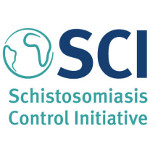
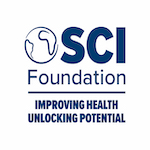
Merged in SCI (pull request #130)
SCI Foundation

* longDiscription korrigiert

* Changes to SCI Foundation text and logos as well as IISS text shortend

* Changes to SCI regions

* Website Links and Title changed

* Long description corrected and pictures resized

* Solve merge conflicts with master

Approved-by: Christopher Thomsen

diff --git a/src/app/services/data.ts b/src/app/services/data.ts
@@ -64,31 +64,31 @@ export class DataService {
       ]
     },
     {
-      name: 'Schistosomiasis Control Initiative',
+      name: 'SCI Foundation',
       article: 'die',
       thumbnail: 'sci',
-      website: 'http://www.imperial.ac.uk/schistosomiasis-control-initiative',
-      donationLink: 'http://www.imperial.ac.uk/schistosomiasis-control-initiative/donate/',
+      website: 'https://schistosomiasiscontrolinitiative.org/',
+      donationLink: 'https://schistosomiasiscontrolinitiative.org/get-involved/donate',
       donationKeyEAS: 'SCI',
       category: [ 'Armut' ],
       cause: [ 'Gesundheit' ],
       impactDirection: 'reaktiv',
-      regions: [ 'BI', 'CI', 'CD', 'ET', 'LR', 'MG', 'MW', 'MR', 'MZ', 'NE', 'NG', 'SD', 'TZ', 'UG', 'ZM' ],
+      regions: [ 'BI', 'CI', 'CD', 'ET', 'LR', 'MG', 'MW', 'MR', 'NE', 'SD', 'TZ', 'UG' ],
       questionaireResults: [ 'human health' ],
       slogan: 'Behandlung vernachlässigter Tropenkrankheiten in Subsahara-Afrika',
-      shortDescription: 'SCI behandelt Kinder und Erwachsene mit Risiko für Schistosomiasis und durch den Boden übertragene Helminthen (Peitschenwurm, Hakenwurm und Spulwurm), verhindert Anämie, beeinträchtigtes Wachstum und Entwicklung bei Kindern und die Entwicklung von lebensbedrohlichen Zuständen von Blasenkrebs, Nierenfunktionsstörungen oder Leber- und Milzschäden.',
-      longDescription: 'SCI unterstützt Gesundheitsministerien in Subsahara-Afrika bei der Bekämpfung und anschließenden Eliminierung von Schistosomiasis und durch den Boden übertragenen Helminthen aus ihrer Bevölkerung unter Verwendung des Medikamentenspendeprogramms der Weltgesundheitsorganisation (WHO) für Praziquantel und Albendazol. 230 Millionen Menschen, ein Drittel der Gesamtbevölkerung Afrikas, benötigen eine regelmäßige jährliche Behandlung von Praziquantel. 400 Millionen Menschen benötigen eine regelmäßige jährliche Behandlung von Albendazol, um diese parasitären Krankheiten aus ihrem Körper zu eliminieren.',
-      impact1000: 'Mit 1.000€ können ca. 2000 Menschen behandelt werden.',
-      donationDeficit: 0,
+      shortDescription: 'Die  Mission der SCI-Stiftung besteht darin, vernachlässigte Infektionskrankheiten durch die Stärkung wirkungsvoller und umfassender Gesundheitsprogramme zu verhindern und zu behandeln. Durch die SCI-Stiftung werden Kinder und Erwachsene mit Risiko für Schistosomiasis und den Boden übertragene Helminthen (Peitschenwurm, Hakenwurm und Spulwurm) behandelt. Dadurch werden Anämie, beeinträchtigtes Wachstum und Entwicklung bei Kindern und die Entwicklung von lebensbedrohlichen Zuständen von Blasenkrebs, Nierenfunktionsstörungen oder Leber- und Milzschäden verhindert.',
+      longDescription: 'Die SCI-Stiftung unterstützt Gesundheitsministerien in Subsahara-Afrika bei der Bekämpfung und anschließenden Eliminierung von Schistosomiasis und durch den Boden übertragenen Helminthen aus ihrer Bevölkerung unter Verwendung des Medikamentenspendeprogramms der Weltgesundheitsorganisation (WHO) für Praziquantel und Albendazol. Weltweit sind 240 Millionen Menschen von Schistosomiasis betroffen und ca. 200.000 Menschen sterben jedes Jahr an Schistosomiasis. Mindestens 90 Prozent der behandlungsbedürftigen Menschen leben in Afrika.',
+      impact1000: 'Mit ca. 1.000€ können ca. 3000 Menschen behandelt werden.',
+      donationDeficit: 30000000,
       evaluators: [
         {
           evaluator: 'GiveWell',
-          link: 'https://www.givewell.org/charities/Schistosomiasis-Control-Initiative',
+          link: 'https://www.givewell.org/charities/sci-foundation',
           top: true
         },
         {
           evaluator: 'The Life You Can Save',
-          link: 'https://www.thelifeyoucansave.org/where-to-donate/schistosomiasis-control-initiative',
+          link: 'https://www.thelifeyoucansave.org/best-charities/schistosomiasis-control-initiative/',
           top: true
         }
       ]
@@ -165,8 +165,8 @@ export class DataService {
       regions: [ 'IN' ],
       questionaireResults: [ 'poverty' ],
       slogan: 'Eine einfache Fahrkarte genügt, um saisonale Armut zu vermindern',
-      shortDescription: 'No Lean Season verringert saisonale Armut in ländlichen Region, indem sie Arbeitsmobilität ermöglicht und so Einkommen erhöht.',
-      longDescription: 'Saisonale Armut entsteht in der Zeit zwischen Saat und Ernte in denen es wenig Jobs gibt, die Nahrungsvorräte ausgehen und es so zu Mangelernährung insbesondere von Schwangeren und kleinen Kindern kommt. No Lean Season unterstützt teilnehmende Haushalte mit $20, um eine Reise zu städtischen Gebieten in der Umgebung möglich zu machen, die in dieser Zeit mehr Jobs bieten. Studien der Universität Yale haben ergeben, dass diese saisonalen Arbeitsmöglichkeiten in jedem Haushalt durchschnittlich eine Mahlzeit pro Kopf mehr an Tag möglich machen.',
+      shortDescription: 'No Lean Season verringert saisionale Armut in ländlichen Region, indem sie Arbeitsmobilität ermöglicht und so Einkommen erhöht.',
+      longDescription: 'Sasionale Armut entsteht in der Zeit zwischen Saat und Ernte in denen es wenig Jobs gibt, die Nahrungvorräte ausgehen und es so zu Mangelernährung insbesondere von Schwangeren und kleinen Kindern kommt. No Lean Season unterstützt teilnehmende Haushalte mit $20, um eine Reise zu städtischen Gebieten in der Umgebung möglich zu machen, die in dieser Zeit mehr Jobs bieten. Studien der Universität Yale haben ergeben, dass diese saisonalen Arbeitsmöglichkeiten in jedem Haushalt durschnittlich eine Mahlzeit pro Kopf mehr an Tag möglich machen.',
       impact1000: 'In Haushalt, die an dem Programm teilnehmen, konnte ein Drittel mehr für Nahrung und andere Notwendigkeiten ausgeben werden, pro Person wurden ca. 600 Kalorien mehr am Tag konsumiert.',
       donationDeficit: 0, // Im Dezember 2017 wurde von Good Ventures 11,5 Millionen Dollar zum No Lean Season Programm gegeben, welches das Programm für die nächsten drei Jahre im Wesentlichen finanziert. Zusätzliche Spenden können für Forschung und Erweiterung des Programms genutzt werden.
       evaluators: [
@@ -802,7 +802,7 @@ export class DataService {
       questionaireResults: ['institutions'],
       slogan: 'Facts. Analysis. Influence.',
       shortDescription: 'Das Internationale Institut für Strategische Studien (IISS) ist ein britisches Forschungsinstitut (oder Think Tank) auf dem Gebiet internationaler Angelegenheiten. IISS ist die weltweit führende Autorität in globalen Sicherheitsfragen und bietet Fakten und Analysen zu einer breiten Palette von internationalen Sicherheitsfragen.',
-      longDescription: 'Das Internationale Institut für Strategische Studien (IISS) ist ein britisches Forschungsinstitut auf dem Gebiet internationaler Angelegenheiten. IISS ist die weltweit führende internationale Autorität in globalen Sicherheitsfragen und bietet Fakten und Analysen zu einer breiten Palette von internationalen Sicherheits- und politischen Risikofragen. Das IISS mit Hauptsitz in London hat Büros in Washington, Singapur und Bahrain. Gremium und Mitarbeiter des Instituts sind international und kommen aus mehr als 90 Ländern. Das IISS ist eine wichtige Quelle für genaue, objektive Informationen zu strategischen Fragen für Politiker, Diplomaten, internationale Unternehmen, Ökonomen, Militärs, Journalisten, Wissenschaftlern und die informierte Öffentlichkeit. Das Institut ist unabhängig und keiner Regierung oder irgendeiner politischen bzw. anderen Organisation verpflichtet. Das IISS forscht mit einer zukunftsorientierten Politikorientierung und legt besonderen Wert darauf, neue Perspektiven in strategische Diskussionen zu bringen. Die Arbeit des Instituts beruht auf der Einschätzung verschiedener politischer, wirtschaftlicher und sozialer Probleme, die Instabilität verursachen, sowie auf Faktoren, die zu internationaler Zusammenarbeit führen können. Sie bringt jährlich Verteidigungsminister, Außenminister und nationale Sicherheitsberater in verschiedenen Formaten privat und öffentlich zusammen, um die internationale Sicherheitspolitik zu diskutieren und zu gestalten. Jedes Jahr finden in Europa, Nordamerika, dem Nahen Osten und Asien sowie in Lateinamerika und Afrika einflussreiche Veranstaltungen statt. IISS-Publikationen werden von wichtigen Entscheidungsträgern gelesen und werden innerhalb der Regierungen auf Kabinettsebene kommentiert. Die Bandbreite der IISS-Publikationen, ihre Gestaltungskraft und die starke internationale Politik des Instituts machen das IISS zu einem wichtigen Akteur in der globalen strategischen Debatte.',
+      longDescription: 'Das IISS ist eine wichtige Quelle für genaue, objektive Informationen zu strategischen Fragen für Politiker, Diplomaten, internationale Unternehmen, Ökonomen, Militärs, Journalisten, Wissenschaftlern und die informierte Öffentlichkeit. Das unabhängige Institut forscht mit einer zukunftsorientierten Politikorientierung und legt besonderen Wert darauf, neue Perspektiven in strategische Diskussionen zu bringen. Die Arbeit des Instituts beruht auf der Einschätzung verschiedener politischer, wirtschaftlicher und sozialer Probleme, die Instabilität verursachen, sowie auf Faktoren, die zu internationaler Zusammenarbeit führen können. IISS-Publikationen werden von wichtigen Entscheidungsträgern gelesen und werden innerhalb der Regierungen auf Kabinettsebene kommentiert. Die Bandbreite der IISS-Publikationen, ihre Gestaltungskraft und die starke internationale Politik des Instituts machen das IISS zu einem wichtigen Akteur in der globalen strategischen Debatte.',
       impact1000: 'Da das IISS verschiedene Programme in vielen verschiedenen Ländern betreibt, ist eine genaue quantitative Beurteilung schwierig.',
       donationDeficit: null,
       evaluators: [
